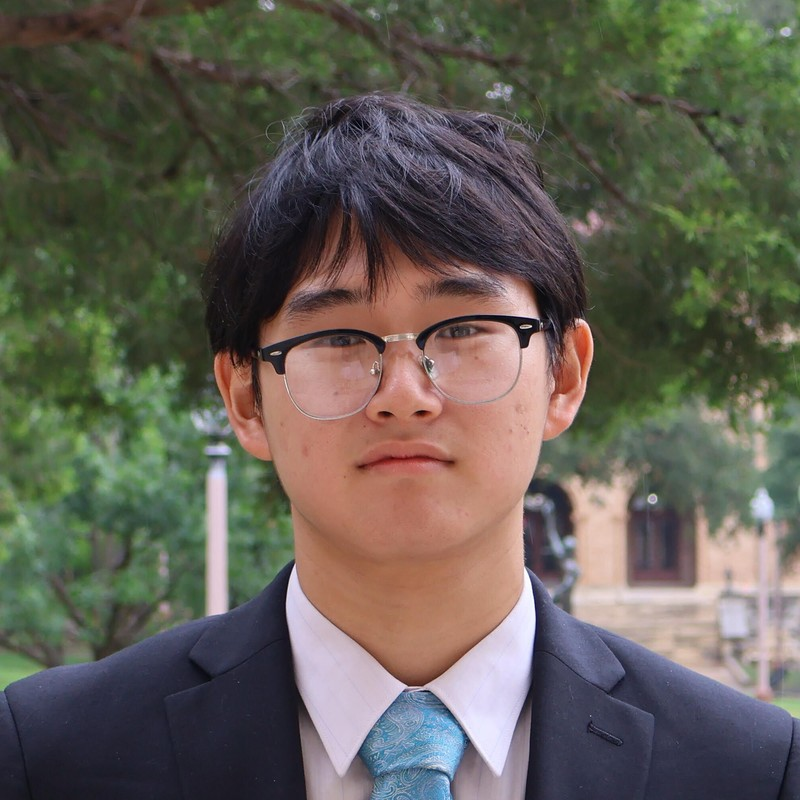
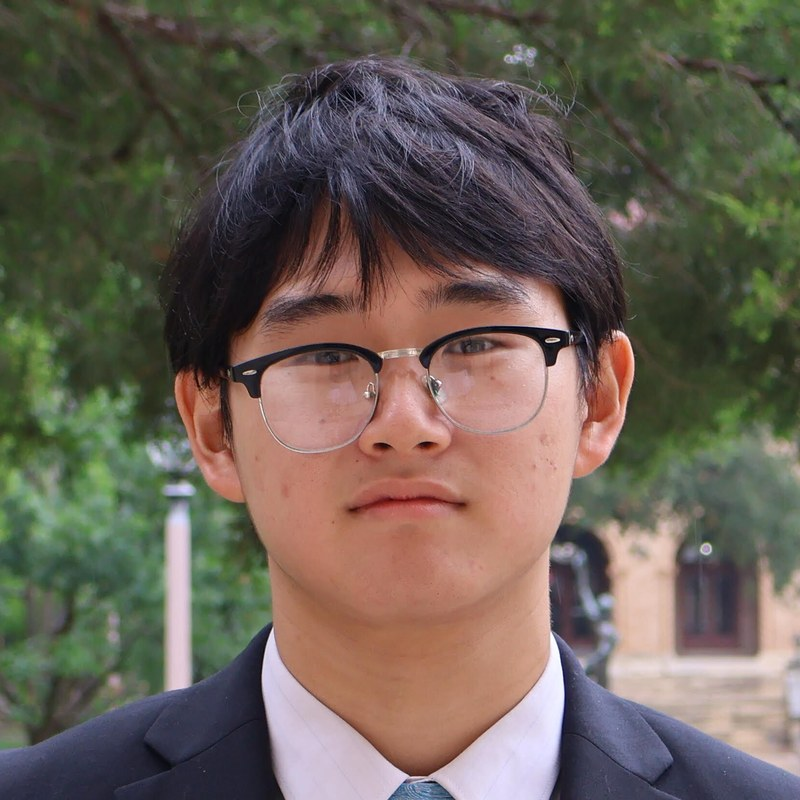
feat(hero): add read our blog button linking to substack

diff --git a/src/components/Hero.tsx b/src/components/Hero.tsx
@@ -1,4 +1,4 @@
-import { slackInviteUrl } from "@/lib/data";
+import { blogUrl, slackInviteUrl } from "@/lib/data";
 import { CapabilityChartPlaceholder } from "./CapabilityChartPlaceholder";
 import { RotatingWord } from "./RotatingWord";
 
@@ -30,6 +30,12 @@ export function Hero() {
               className="font-chivo-mono rounded-[2px] bg-white px-[22px] py-[14px] text-[14px] leading-none font-medium tracking-[.02em] text-burnt transition-colors hover:bg-tint-body"
             >
               JOIN OUR SLACK →
+            </a>
+            <a
+              href={blogUrl}
+              className="font-chivo-mono rounded-[2px] border border-white px-[22px] py-[13px] text-[14px] leading-none font-medium tracking-[.02em] text-white transition-colors hover:bg-white/10"
+            >
+              READ OUR BLOG →
             </a>
             {/* <a
               href="/fellowships"

diff --git a/src/lib/data.ts b/src/lib/data.ts
@@ -83,7 +83,7 @@ export const organizers: Organizer[] = [
   {
     name: "Feifan Liu",
     role: "GOVERNANCE CO-LEAD",
-    photoUrl: "/organizers/feifan-liu.jpg",
+    photoUrl: "/organizers/feifan-liu.jpg?v=2",
     bookingUrl: "https://calendly.com/feifan-liu-utexas/30min",
   },
   {
@@ -95,6 +95,8 @@ export const organizers: Organizer[] = [
 ];
 
 export const slackInviteUrl = "https://join.slack.com/t/austinaialignment/shared_invite/zt-48uudtl0g-xg8AEDJi5I0jAHU~WcOniw";
+
+export const blogUrl = "https://austinaialignment.substack.com/";
 
 export interface CurriculumWeek {
   title: string;
